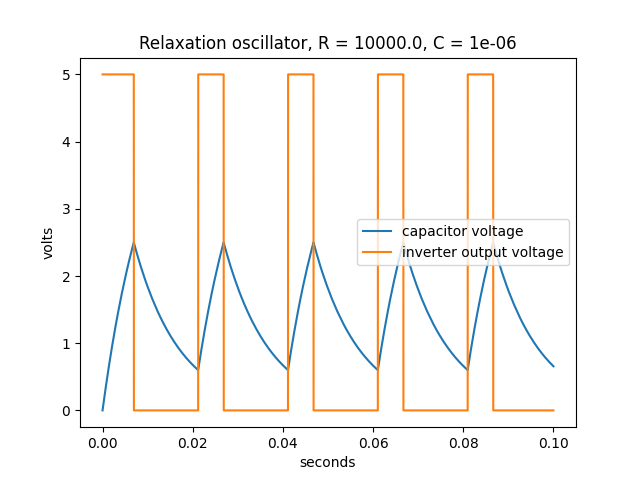
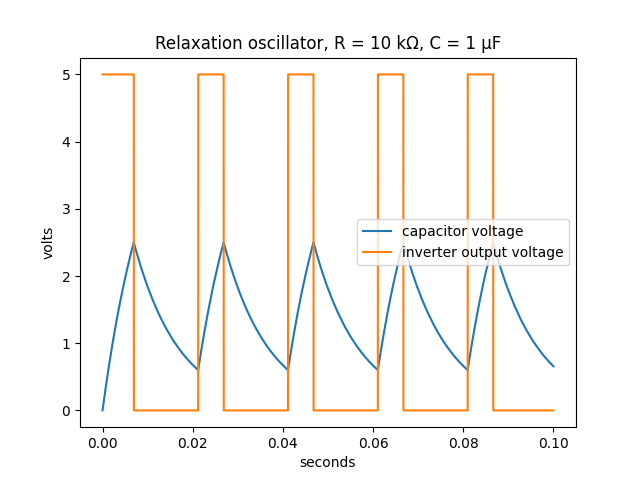
Use pF etc in plot title

Changed region(s): [[0.2188, 0.0625, 0.6875, 0.125], [0.7188, 0.0625, 0.8125, 0.125]]

diff --git a/plot.py b/plot.py
@@ -25,11 +25,92 @@
 # SOFTWARE.
 #
 
+import argparse
 import csv
+import decimal
 import matplotlib.pyplot as plt
 import numpy as np
-import sys
 import os
+import sys
+
+OHM_SYMBOL = "\u03A9"
+MICRO_SYMBOL = "\u00B5"
+
+def test(a, b):
+    assert a == b, f'"{a}" != "{b}"'
+    print(f'"{a}" == "{b}"')
+
+def makeFriendly(value, symbol):
+    """ Convert component value to conventional notation. e.g. 10e6 to
+    1 M.  """
+    decimal.getcontext().prec = 5
+    val1 = decimal.Decimal(value)
+    order = 0
+    while val1 >= 10:
+        val1 = val1 / 10
+        order = order + 1
+    while val1 < 1:
+        val1 = val1 * 10
+        order = order - 1
+
+    while order % 3 != 0:
+        order = order - 1
+        val1 = val1 * 10
+
+    # No fractional part if not needed
+    if val1 == int(val1):
+        val1 = int(val1)
+
+    # Trim trailing  zeros after decimal point
+    val1 = str(val1)
+    if "." in val1:
+        while val1[-1] == '0':
+            val1 = val1[:-1]
+
+    if order == -12:
+        returnValue = val1 + " p";
+    elif order == -9:
+        returnValue = val1 + " n";
+    elif order == -6:
+        returnValue = val1 + " " + MICRO_SYMBOL;
+    elif order == -3:
+        returnValue = val1 + " m";
+    elif order == 3:
+        returnValue = val1 + " k";
+    elif order == 6:
+        returnValue = val1 + " M";
+    elif order == 9:
+        returnValue = val1 + " G";
+    elif order == 12:
+        returnValue = val1 + " T";
+    else:
+        returnValue = str(value) + " ";
+    return returnValue + symbol
+
+parser = argparse.ArgumentParser(description="Plot relaxation program output")
+parser.add_argument('--test', action='store_true',
+                    help="Test makeFriendly() function")
+parser.add_argument('--png', action = "store_true",
+                    help="Produce PNG file instead of PDF")
+
+args = parser.parse_args()
+if args.test:
+    test(makeFriendly(3300000000000, OHM_SYMBOL),"3.3 T" + OHM_SYMBOL)
+    test(makeFriendly(2200000000, OHM_SYMBOL), "2.2 G" + OHM_SYMBOL)
+    test(makeFriendly(2400000, OHM_SYMBOL), "2.4 M" + OHM_SYMBOL)
+    test(makeFriendly(1000, OHM_SYMBOL), "1 k" + OHM_SYMBOL)
+    test(makeFriendly(1, "F"), "1 F")
+    test(makeFriendly(0.0016, "F"), "1.6 mF")
+    test(makeFriendly(0.000008, "F"), "8 " + MICRO_SYMBOL + "F")
+    test(makeFriendly(0.00000000123, "F"), "1.23 nF")
+    test(makeFriendly(0.0000000000011, "F"), "1.1 pF")
+    print("Tests passed")
+    sys.exit(0)
+
+if args.png:
+    suffix = ".png"
+else:
+    suffix = ".pdf"
 
 descrFile = "description.dat"
 if os.path.exists(descrFile):
@@ -45,14 +126,17 @@ if os.path.exists(descrFile):
     capacitance = float(dict["CAPACITANCE"])
 
     data = np.genfromtxt(filename, delimiter=",")
-    plt.title(f"Relaxation oscillator, R = {resistance}, C = {capacitance}")
+    friendlyResistance = makeFriendly(resistance, OHM_SYMBOL)
+    friendlyCapacitance = makeFriendly(capacitance, "F")
+    plt.title(f"Relaxation oscillator, R = {friendlyResistance}, " +
+              f"C = {friendlyCapacitance}")
     plt.xlabel("seconds")
     plt.ylabel("volts")
 
     cap = plt.plot(data[:,0],data[:,1],label="capacitor voltage")
     out = plt.plot(data[:,0],data[:,2],label="inverter output voltage")
     plt.legend()
-    outputFile = "plot.pdf"
+    outputFile = "plot" + suffix
     plt.savefig(outputFile)
     plt.draw()
     plt.close()
@@ -61,5 +145,3 @@ if os.path.exists(descrFile):
 else:
     print(f"Description file {descrFile} not found", file=sys.stderr)
     sys.exit(1)
-
-
